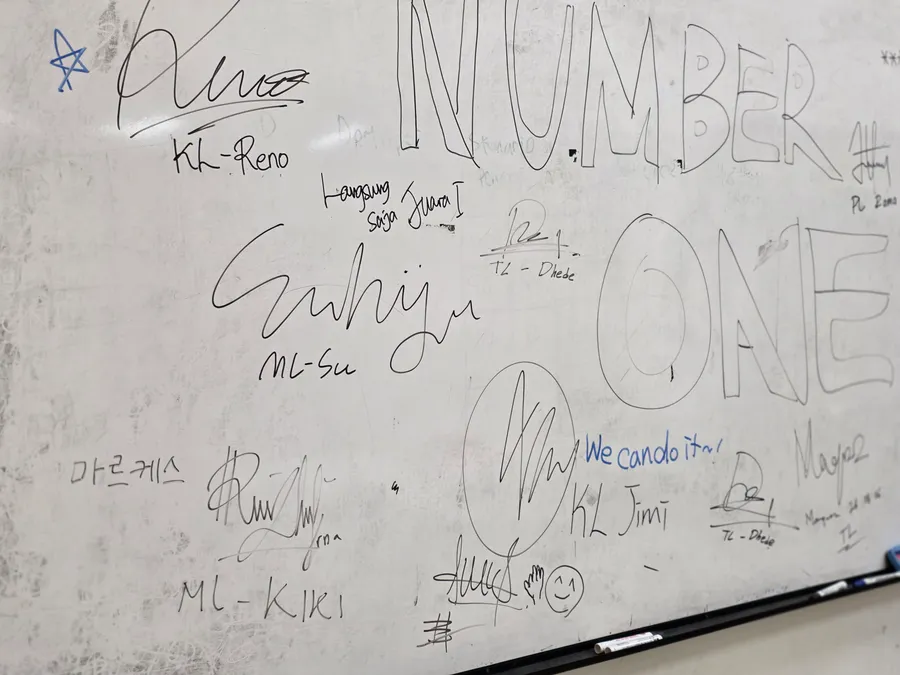
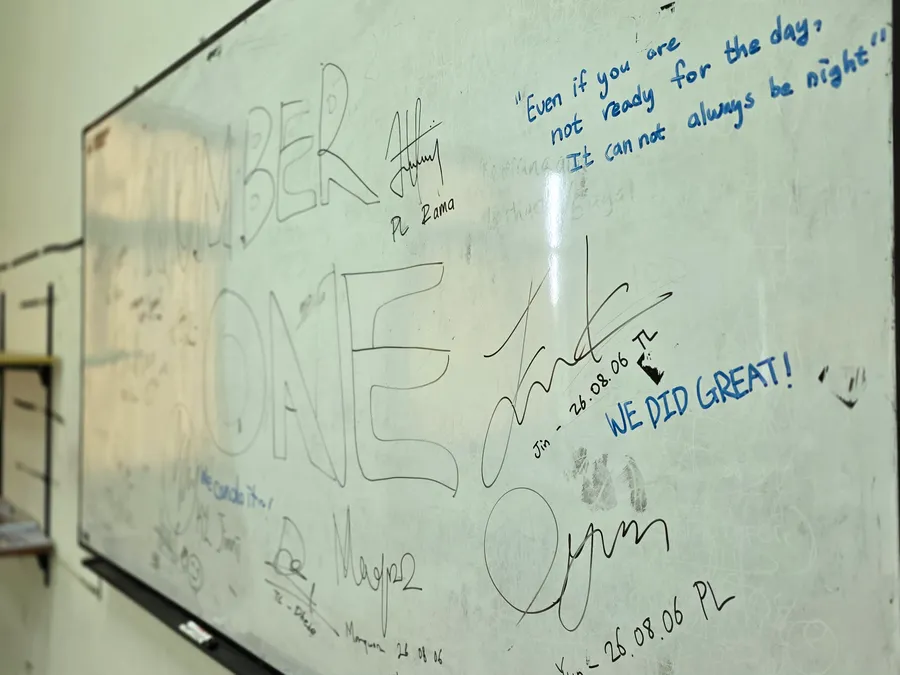
새 사진 3장: 3기기 동시 구동, 센서 조립, 화이트보드 클로즈업
- 협업 증거: 폰·태블릿·노트북이 같은 PlantMoji를 띄운 사진 —
  "하나의 상태를 공유"의 실물 증거
- 재학습: 8/7 저녁 센서 배선을 조립하는 손
- 남긴 것: 화이트보드를 WE DID GREAT! 클로즈업으로 교체

Claude-Session: https://claude.ai/code/session_01MXK68a7KhRaMcjD6frHVQj

diff --git a/index.html b/index.html
@@ -283,7 +283,7 @@
           </div>
 
           <figure class="snap reveal">
-            <img src="/images/legacy-board.webp" alt="팀원들의 서명이 남은 강의실 화이트보드" width="900" height="675" loading="lazy" decoding="async" />
+            <img src="/images/legacy-board.webp" alt="WE DID GREAT 문구와 서명이 적힌 강의실 화이트보드 클로즈업" width="900" height="675" loading="lazy" decoding="async" />
             <figcaption data-i18n="legacy.photo.caption"></figcaption>
           </figure>
         </div>
@@ -313,6 +313,11 @@
           </header>
 
           <ul id="codev-mount" class="evidences reveal"></ul>
+
+          <figure class="snap reveal">
+            <img src="/images/codev-devices.webp" alt="폰, 태블릿, 노트북 세 기기에서 동시에 실행 중인 PlantMoji와 센서 키트" width="1000" height="750" loading="lazy" decoding="async" />
+            <figcaption data-i18n="codev.photo.caption"></figcaption>
+          </figure>
         </div>
       </section>
 
@@ -342,6 +347,11 @@
               <p class="step__body" data-i18n="retrain.step3.body"></p>
             </li>
           </ol>
+
+          <figure class="snap reveal">
+            <img src="/images/retrain-hands.webp" alt="브레드보드와 센서 배선을 조립하는 손, 옆에는 딸기 화분" width="900" height="675" loading="lazy" decoding="async" />
+            <figcaption data-i18n="retrain.photo.caption"></figcaption>
+          </figure>
 
           <figure class="tensorfig reveal">
             <figcaption class="tensorfig__title" data-i18n="retrain.viz.title"></figcaption>
